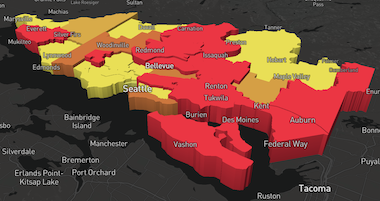
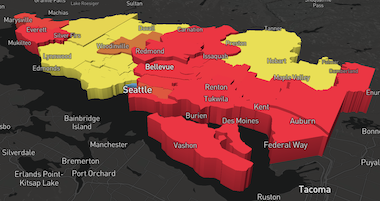
Current: Update example maps to match move to mean
I wanted example image to properly match to the linked view. Mean and mode give different results.

diff --git a/current/src/components/CurrentConditions.js b/current/src/components/CurrentConditions.js
@@ -83,7 +83,7 @@ export default class CurrentConditions extends React.Component {
         </p>
 
         <p>
-          These are examples of flu circulation during January and March 2019, when there was low, moderate, and high circulation respectively.
+          These are examples of flu circulation from January to March 2019, when there were periods of low, moderate and high circulation.
           Click on any picture to be taken to a full screen view.
         </p>
 
@@ -92,16 +92,25 @@ export default class CurrentConditions extends React.Component {
             <a href="/current?week=2019-W01">
               <img alt="example_map_low" width="100%" style={{marginTop: "15px", marginBottom: "15px"}} src="/images/example_map_low.png"/>
             </a>
+            <div style={{"position": "absolute", "top": "12px", "right": "20px"}}>
+              <span style={{"color": "#eee", "fontSize": 18}}>Low</span>
+            </div>
           </div>
           <div className="col-md-4" id="exampleLow">
             <a href="/current?week=2019-W05">
               <img alt="example_map_medium" width="100%" style={{marginTop: "15px", marginBottom: "15px"}} src="/images/example_map_medium.png"/>
             </a>
+            <div style={{"position": "absolute", "top": "12px", "right": "20px"}}>
+              <span style={{"color": "#eee", "fontSize": 18}}>Moderate</span>
+            </div>
           </div>
-          <div className="col-md-4" id="exampleLow">
-            <a href="/current?week=2019-W09">
+          <div class="col-md-4" id="exampleLow">
+            <a href="/current?week=2019-W10">
               <img alt="example_map_high" width="100%" style={{marginTop: "15px", marginBottom: "15px"}} src="/images/example_map_high.png"/>
             </a>
+            <div style={{"position": "absolute", "top": "12px", "right": "20px"}}>
+              <span style={{"color": "#eee", "fontSize": 18}}>High</span>
+            </div>
           </div>
         </div>
 
